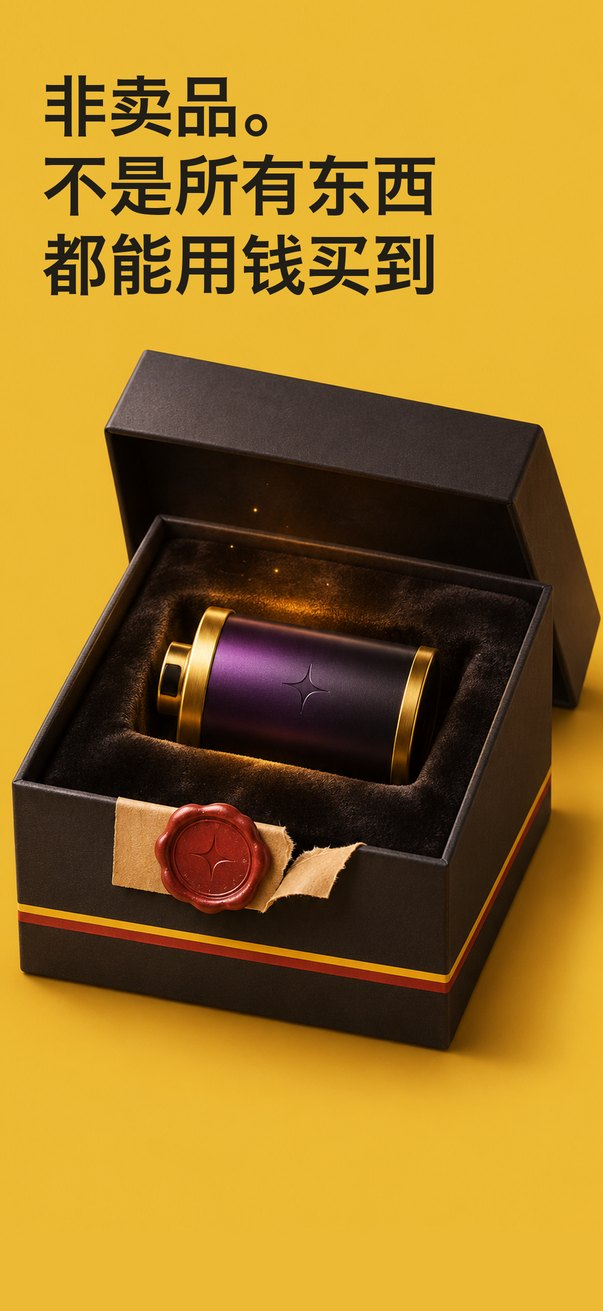
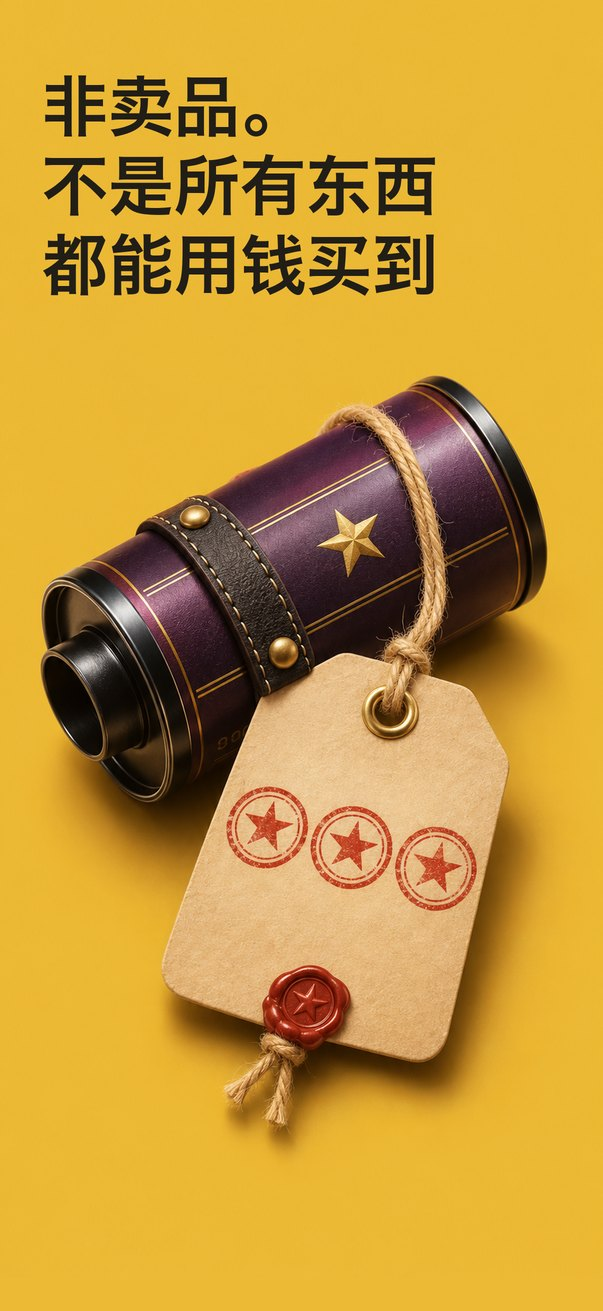
Community concept v2: three-column sleeve sheet laid across the spine, prompt as a featured slot, light photo-community navigation; not-for-sale page a strapped limited roll in the app's drawing; phone page without the red arrow

diff --git a/design/appstore/duo/index.html b/design/appstore/duo/index.html
@@ -24,10 +24,13 @@ body.en .zh,body:not(.en) .en{display:none}
 .tbl{overflow-x:auto}table{border-collapse:collapse;min-width:520px;font-size:14px}td,th{border-bottom:1px solid var(--line);padding:8px;text-align:left;vertical-align:top}
 </style>
 <main>
-<h1>整套 8 页 · 按你的意见改</h1>
+<h1>社区页 · 第二版</h1>
+<p class="sub">照片改成三列：一张比单页更宽的透明插页摊开在包上，从右页铺过书脊、压住左页右边三分之一，左边缘用两个黄铜夹子夹在绒布上——这样“对半开的皮夹”里出现三列就说得通。今日题目不再是导航，改成插页最上面横跨三列的推荐位。左边导航按照片社区的习惯做轻：推荐 / 关注 / 最新、搜索条、按胶卷看、我的（头像、作品 / 关注 / 获赞、打卡章），最下面是黄铜拨档。</p>
+<img src="community_v2.jpg" alt="社区页第二版" style="width:100%;border-radius:8px">
+<h2>整套 8 页 · 按你的意见改</h2>
 <p class="sub">4 非卖品：换成神秘盒子——黑盒子带相机同款黄红条，盒盖掀开，绒布里躺着一卷紫金色的胶卷，火漆封条撕开一半（GPT 画）。6 所见即所得：相机和成片同一个角度，成片压在相机下面像刚吐出来，不再一正一歪，也不是死板地上下摆。7 先试试：回到 App 里真正的滑动对比界面，截成一个满页的竖窗，白线和拖动圆钮在中间；换了一张前后差别大的照片（原图是手机那种平平的发青，Natura 1600 后浓郁暖调）。8 一键直达：去掉桌面图标，只留 Dock（相册、设置、信息、音乐，没有相机）。点按钮切中文 / English。</p>
 <div class="seg" role="group" aria-label="语言"><button id="bz" aria-pressed="true">中文</button><button id="be" aria-pressed="false">English</button></div>
-<div class="row" style="grid-template-columns:repeat(auto-fill,minmax(130px,1fr))"><figure><img class="zh" src="s9_1_zh.jpg" alt="不是 iPhone，是胶片相机"><img class="en" src="s9_1_en.jpg" alt="不是 iPhone，是胶片相机"><figcaption>1 · 不是 iPhone，是胶片相机</figcaption></figure><figure><img class="zh" src="s9_2_zh.jpg" alt="换一卷，换一种生活"><img class="en" src="s9_2_en.jpg" alt="换一卷，换一种生活"><figcaption>2 · 换一卷，换一种生活</figcaption></figure><figure><div style="aspect-ratio:603/1311;border:2px dashed #b9a;border-radius:6px;display:grid;place-items:center;text-align:center;padding:8px;font-size:13px">社区页<br>等你选定导航后做</div><figcaption>3 · 社区</figcaption></figure><figure><img class="zh" src="s9_4_zh.jpg" alt="非卖品（神秘盒子）"><img class="en" src="s9_4_en.jpg" alt="非卖品（神秘盒子）"><figcaption>4 · 非卖品（神秘盒子）</figcaption></figure><figure><img class="zh" src="s9_5_zh.jpg" alt="军火库"><img class="en" src="s9_5_en.jpg" alt="军火库"><figcaption>5 · 军火库</figcaption></figure><figure><img class="zh" src="s9_6_zh.jpg" alt="所见即所得（新）"><img class="en" src="s9_6_en.jpg" alt="所见即所得（新）"><figcaption>6 · 所见即所得（新）</figcaption></figure><figure><img class="zh" src="s9_7_zh.jpg" alt="买之前，先试试（新）"><img class="en" src="s9_7_en.jpg" alt="买之前，先试试（新）"><figcaption>7 · 买之前，先试试（新）</figcaption></figure><figure><img class="zh" src="s9_8_zh.jpg" alt="两种方式，一键直达（新）"><img class="en" src="s9_8_en.jpg" alt="两种方式，一键直达（新）"><figcaption>8 · 两种方式，一键直达（新）</figcaption></figure></div>
+<div class="row" style="grid-template-columns:repeat(auto-fill,minmax(130px,1fr))"><figure><img class="zh" src="s9_1_zh.jpg" alt="不是 iPhone，是胶片相机"><img class="en" src="s9_1_en.jpg" alt="不是 iPhone，是胶片相机"><figcaption>1 · 不是 iPhone，是胶片相机</figcaption></figure><figure><img class="zh" src="s9_2_zh.jpg" alt="换一卷，换一种生活"><img class="en" src="s9_2_en.jpg" alt="换一卷，换一种生活"><figcaption>2 · 换一卷，换一种生活</figcaption></figure><figure><div style="aspect-ratio:603/1311;border:2px dashed #b9a;border-radius:6px;display:grid;place-items:center;text-align:center;padding:8px;font-size:13px">社区页<br>等你选定导航后做</div><figcaption>3 · 社区</figcaption></figure><figure><img class="zh" src="s9_4_zh.jpg" alt="非卖品（神秘盒子）"><img class="en" src="s9_4_en.jpg" alt="非卖品（神秘盒子）"><figcaption>4 · 非卖品（锁起来的限定卷）</figcaption></figure><figure><img class="zh" src="s9_5_zh.jpg" alt="军火库"><img class="en" src="s9_5_en.jpg" alt="军火库"><figcaption>5 · 军火库</figcaption></figure><figure><img class="zh" src="s9_6_zh.jpg" alt="所见即所得（新）"><img class="en" src="s9_6_en.jpg" alt="所见即所得（新）"><figcaption>6 · 所见即所得（新）</figcaption></figure><figure><img class="zh" src="s9_7_zh.jpg" alt="买之前，先试试（新）"><img class="en" src="s9_7_en.jpg" alt="买之前，先试试（新）"><figcaption>7 · 买之前，先试试（新）</figcaption></figure><figure><img class="zh" src="s9_8_zh.jpg" alt="两种方式，一键直达（新）"><img class="en" src="s9_8_en.jpg" alt="两种方式，一键直达（新）"><figcaption>8 · 两种方式，一键直达（去掉红箭头）</figcaption></figure></div>
 <h2>内屏导航 · 实际用起来的样子</h2>
 <p class="sub">每个方案两张：左边停在“胶卷”页，右边切到“社区”页。导航固定在左页最下面不动，切页时只有上面的内容换：胶卷页左边是胶卷，社区页左边是题目、分类和打卡；右页都是内容。右边的“小皮子”书签已经去掉。都是 GPT 画的。</p>
 <h2>A · 黄铜拨档铭牌：拨杆从“胶卷”拨到了最右边“社区”，选中的字变红</h2>
@@ -40,7 +43,7 @@ body.en .zh,body:not(.en) .en{display:none}
 <h2>整套 8 页（第 6、7、8 页重做）</h2>
 <p class="sub">6 所见即所得：不再截相机，整台相机放正，下面一张同样大小的成片，就是屏幕里那张。7 先试试：换了内容——一卷胶卷拉出来，前三格已经拍了照片，后面全是空格，意思是“先免费拍三张”（GPT 画）。8 一键直达：一张图里同时有主屏幕上的小组件和机身侧面圈红的相机键，不再是两块拼在一起（GPT 画）。点按钮切中文 / English。</p>
 
-<div class="row" style="grid-template-columns:repeat(auto-fill,minmax(130px,1fr))"><figure><img class="zh" src="s8_1_zh.jpg" alt="不是 iPhone，是胶片相机"><img class="en" src="s8_1_en.jpg" alt="不是 iPhone，是胶片相机"><figcaption>1 · 不是 iPhone，是胶片相机</figcaption></figure><figure><img class="zh" src="s8_2_zh.jpg" alt="换一卷，换一种生活"><img class="en" src="s8_2_en.jpg" alt="换一卷，换一种生活"><figcaption>2 · 换一卷，换一种生活</figcaption></figure><figure><div style="aspect-ratio:603/1311;border:2px dashed #b9a;border-radius:6px;display:grid;place-items:center;text-align:center;padding:8px;font-size:13px">社区页<br>等你选定导航后<br>用新的社区界面做</div><figcaption>3 · 社区</figcaption></figure><figure><img class="zh" src="s8_4_zh.jpg" alt="非卖品"><img class="en" src="s8_4_en.jpg" alt="非卖品"><figcaption>4 · 非卖品</figcaption></figure><figure><img class="zh" src="s8_5_zh.jpg" alt="军火库（斜切两半）"><img class="en" src="s8_5_en.jpg" alt="军火库（斜切两半）"><figcaption>5 · 军火库（斜切两半）</figcaption></figure><figure><img class="zh" src="s8_6_zh.jpg" alt="所见即所得（新）"><img class="en" src="s8_6_en.jpg" alt="所见即所得（新）"><figcaption>6 · 所见即所得（新）</figcaption></figure><figure><img class="zh" src="s8_7_zh.jpg" alt="买之前，先试试（新）"><img class="en" src="s8_7_en.jpg" alt="买之前，先试试（新）"><figcaption>7 · 买之前，先试试（新）</figcaption></figure><figure><img class="zh" src="s8_8_zh.jpg" alt="两种方式，一键直达（新）"><img class="en" src="s8_8_en.jpg" alt="两种方式，一键直达（新）"><figcaption>8 · 两种方式，一键直达（新）</figcaption></figure></div>
+<div class="row" style="grid-template-columns:repeat(auto-fill,minmax(130px,1fr))"><figure><img class="zh" src="s8_1_zh.jpg" alt="不是 iPhone，是胶片相机"><img class="en" src="s8_1_en.jpg" alt="不是 iPhone，是胶片相机"><figcaption>1 · 不是 iPhone，是胶片相机</figcaption></figure><figure><img class="zh" src="s8_2_zh.jpg" alt="换一卷，换一种生活"><img class="en" src="s8_2_en.jpg" alt="换一卷，换一种生活"><figcaption>2 · 换一卷，换一种生活</figcaption></figure><figure><div style="aspect-ratio:603/1311;border:2px dashed #b9a;border-radius:6px;display:grid;place-items:center;text-align:center;padding:8px;font-size:13px">社区页<br>等你选定导航后<br>用新的社区界面做</div><figcaption>3 · 社区</figcaption></figure><figure><img class="zh" src="s8_4_zh.jpg" alt="非卖品"><img class="en" src="s8_4_en.jpg" alt="非卖品"><figcaption>4 · 非卖品</figcaption></figure><figure><img class="zh" src="s8_5_zh.jpg" alt="军火库（斜切两半）"><img class="en" src="s8_5_en.jpg" alt="军火库（斜切两半）"><figcaption>5 · 军火库（斜切两半）</figcaption></figure><figure><img class="zh" src="s8_6_zh.jpg" alt="所见即所得（新）"><img class="en" src="s8_6_en.jpg" alt="所见即所得（新）"><figcaption>6 · 所见即所得（新）</figcaption></figure><figure><img class="zh" src="s8_7_zh.jpg" alt="买之前，先试试（新）"><img class="en" src="s8_7_en.jpg" alt="买之前，先试试（新）"><figcaption>7 · 买之前，先试试（新）</figcaption></figure><figure><img class="zh" src="s8_8_zh.jpg" alt="两种方式，一键直达（新）"><img class="en" src="s8_8_en.jpg" alt="两种方式，一键直达（新）"><figcaption>8 · 两种方式，一键直达（去掉红箭头）</figcaption></figure></div>
 <h2>内屏导航重做 · 三个方案</h2>
 <p class="sub">右边那列“小皮子”书签全部去掉，右页留给内容（以后放社区）。导航挪到左页最下面，胶卷区收短，上面照样能上下滑。三种都是真的能固定在包里的东西（GPT 画）：</p>
 <h2>A · 黄铜拨档铭牌（我推荐）</h2>

diff --git a/tools/appstore_v6.py b/tools/appstore_v6.py
@@ -670,6 +670,19 @@ def z6_compare():
     place(im, crop, (46, 560), radius=56, shadow=60)
     return im
 
+def z4_locked():
+    """Not for sale, in the app's own drawing: a limited roll strapped shut,
+    its kraft tag stamped three days running and sealed (GPT art)."""
+    im = gpt_on_yellow("design/appstore/v6/locked_roll.png", y=-60)
+    headline(im, 43)
+    return im
+
+def z8_phone3():
+    """The phone, widget and Dock; the Camera Control button lit, no arrow."""
+    im = gpt_on_yellow("design/appstore/v6/ways_phone3.png", scale_to="height")
+    headline(im, 8)
+    return im
+
 def page1b(kind):
     """The whole camera, centred, over a tiled table of rolls or prints."""
     im = studio()
@@ -693,7 +706,7 @@ def colour_for(p):
 os.makedirs(out, exist_ok=True)
 for p in pages:
     PAGE_COLOR = colour_for(p)
-    if p in (2, 3, 4, 5, 6, 8, 9, 10, 13, 14, 18, 19, 28, 33, 34, 35, 36, 37, 38, 39, 40, 41, 42, 43, 44, 45, 46, 47, 48, 49, 50): {2: page2, 3: page3, 4: page4, 5: page5, 6: page6, 8: page8, 9: page_bag, 10: page_community, 13: page3b, 14: page4b, 19: page_bag2, 18: page8b, 28: page8c, 33: y3_community, 34: y4_bag, 35: y5_wysiwyg, 36: y6_try, 37: y7_ways, 41: z3_community, 38: z4_bag, 39: z5_wysiwyg, 40: z6_try, 42: z7_ways, 43: z3_earn, 44: z6_strip, 45: z8_phone, 46: z5_stack, 47: z4_box, 48: z8_phone2, 49: z5_pair, 50: z6_compare}[p]().save(f"{out}/{p}_{lang}.png")
+    if p in (2, 3, 4, 5, 6, 8, 9, 10, 13, 14, 18, 19, 28, 33, 34, 35, 36, 37, 38, 39, 40, 41, 42, 43, 44, 45, 46, 47, 48, 49, 50, 51, 52): {2: page2, 3: page3, 4: page4, 5: page5, 6: page6, 8: page8, 9: page_bag, 10: page_community, 13: page3b, 14: page4b, 19: page_bag2, 18: page8b, 28: page8c, 33: y3_community, 34: y4_bag, 35: y5_wysiwyg, 36: y6_try, 37: y7_ways, 41: z3_community, 38: z4_bag, 39: z5_wysiwyg, 40: z6_try, 42: z7_ways, 43: z3_earn, 44: z6_strip, 45: z8_phone, 46: z5_stack, 47: z4_box, 48: z8_phone2, 49: z5_pair, 50: z6_compare, 51: z4_locked, 52: z8_phone3}[p]().save(f"{out}/{p}_{lang}.png")
     elif 21 <= p <= 25: page1_variant(p - 20).save(f"{out}/1v{p-20}_{lang}.png")
     elif p == 11: page1b("rolls").save(f"{out}/1a_{lang}.png")
     elif p == 12: page1b("prints").save(f"{out}/1b_{lang}.png")
